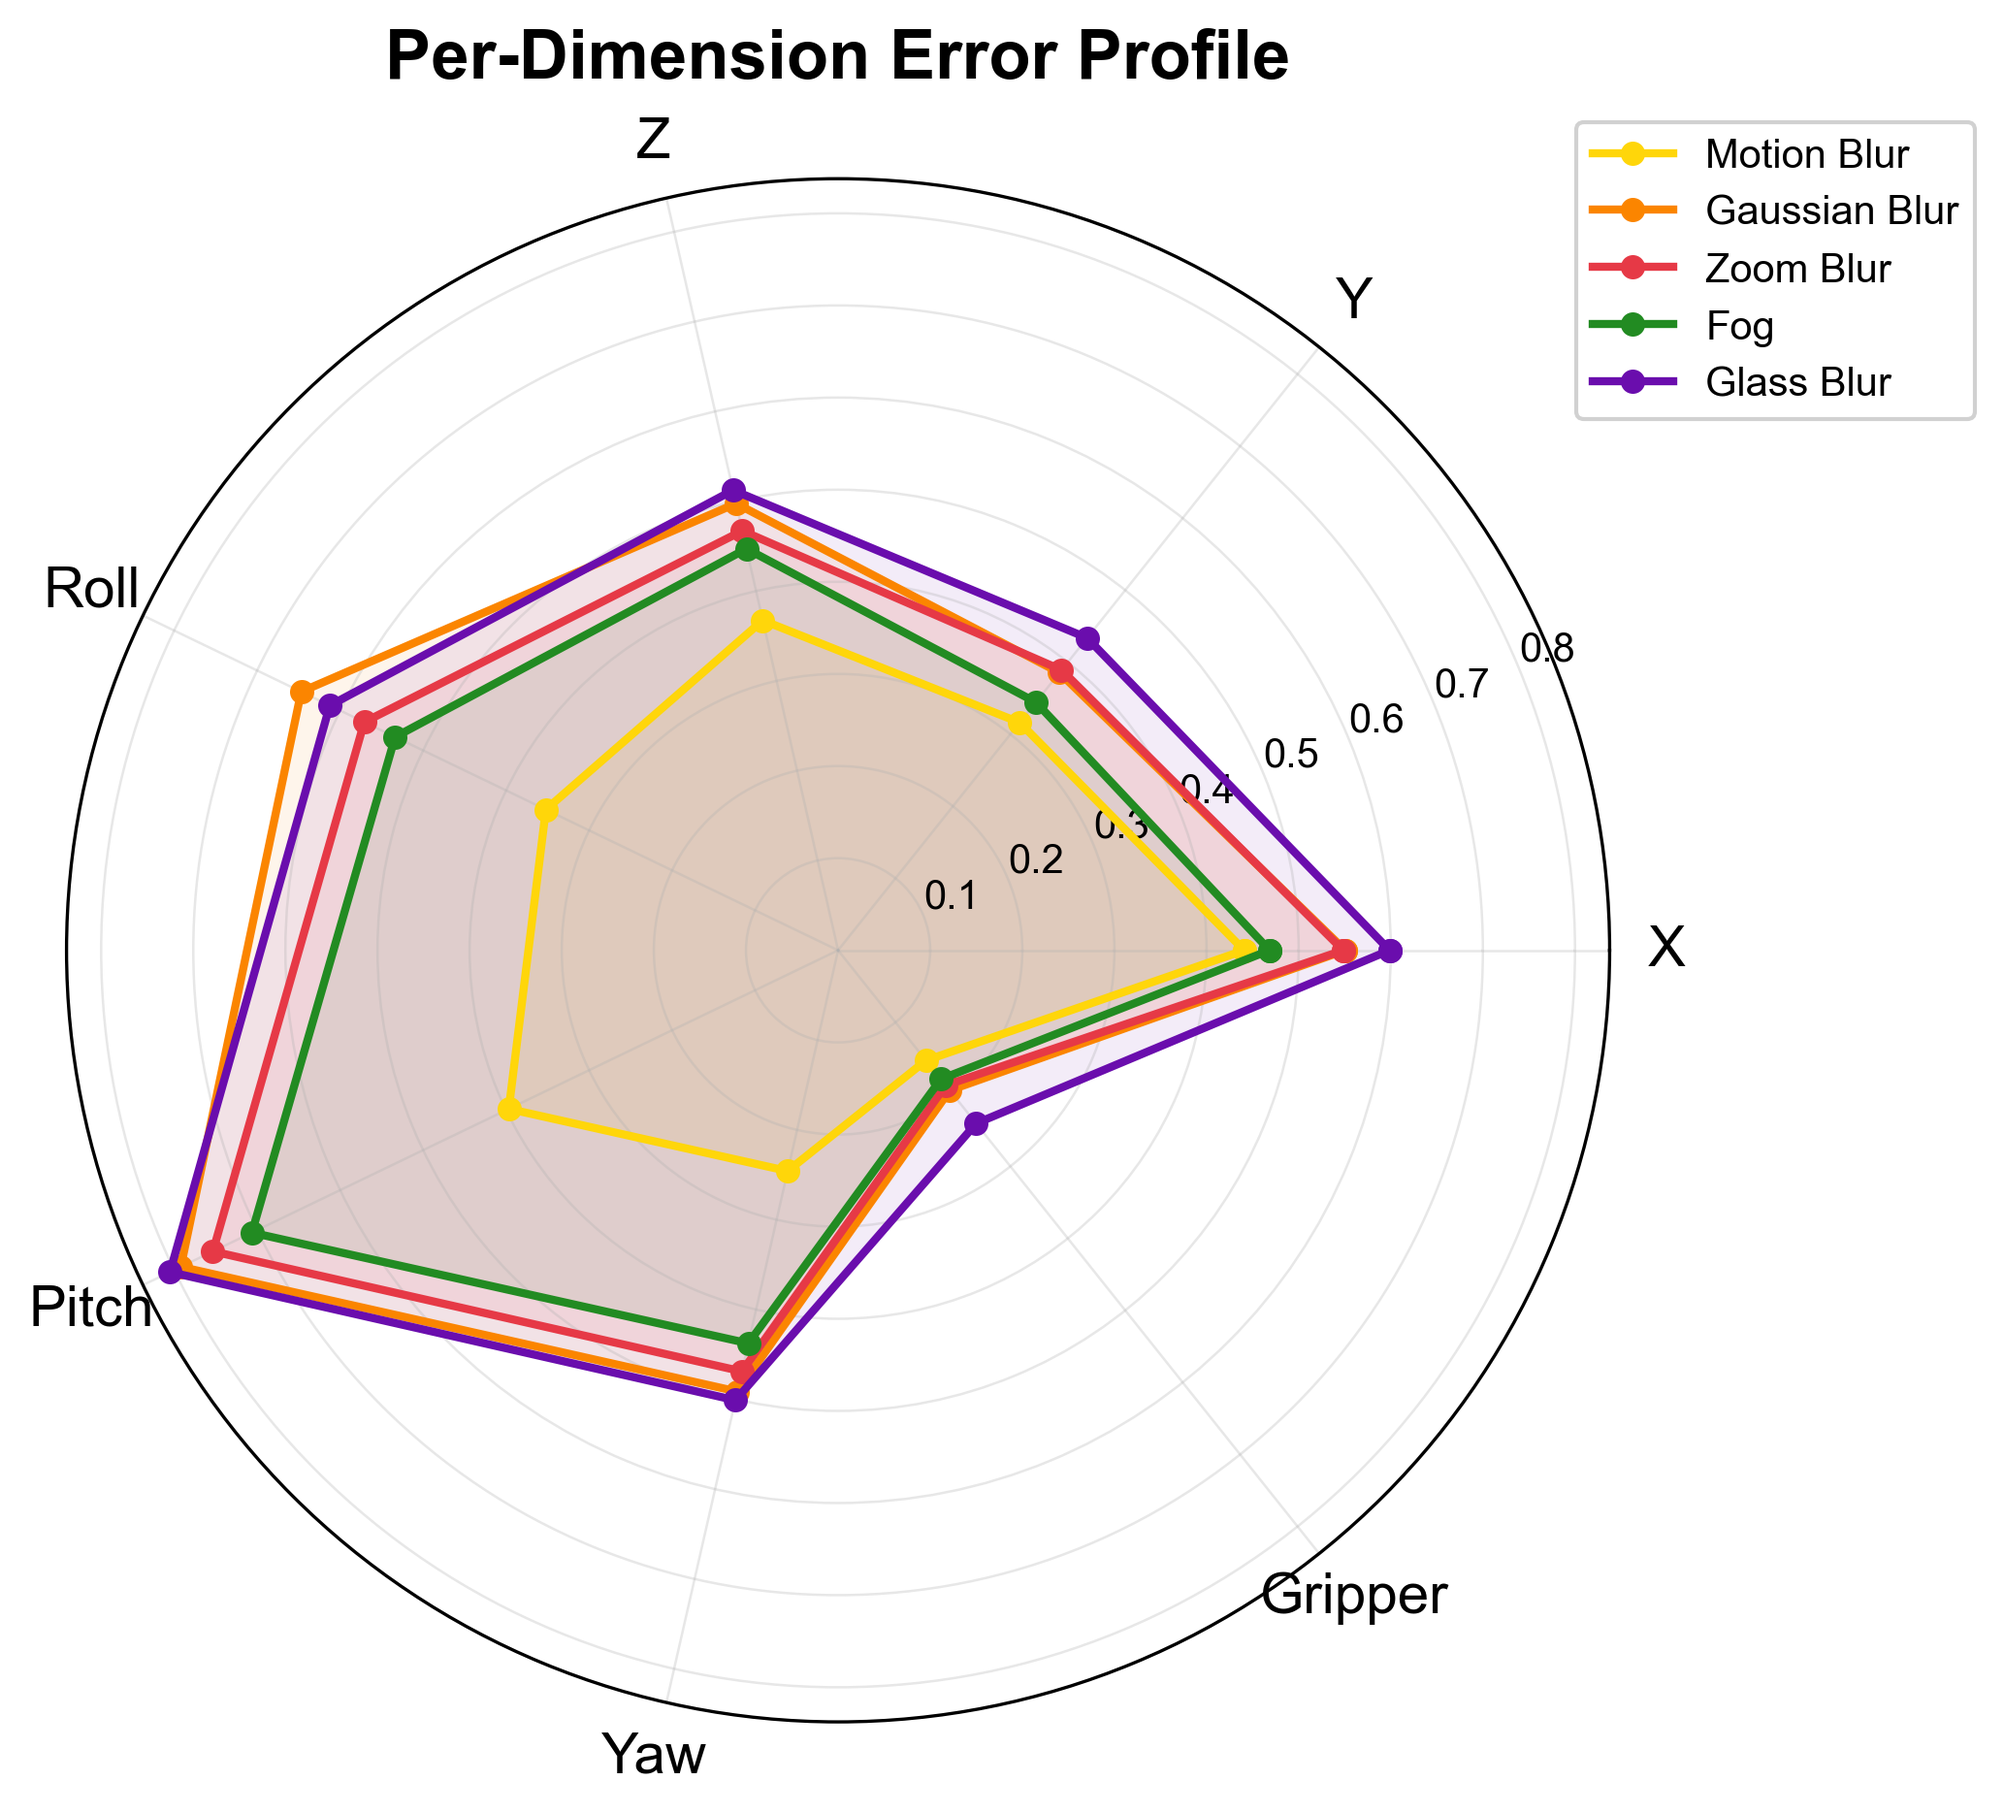
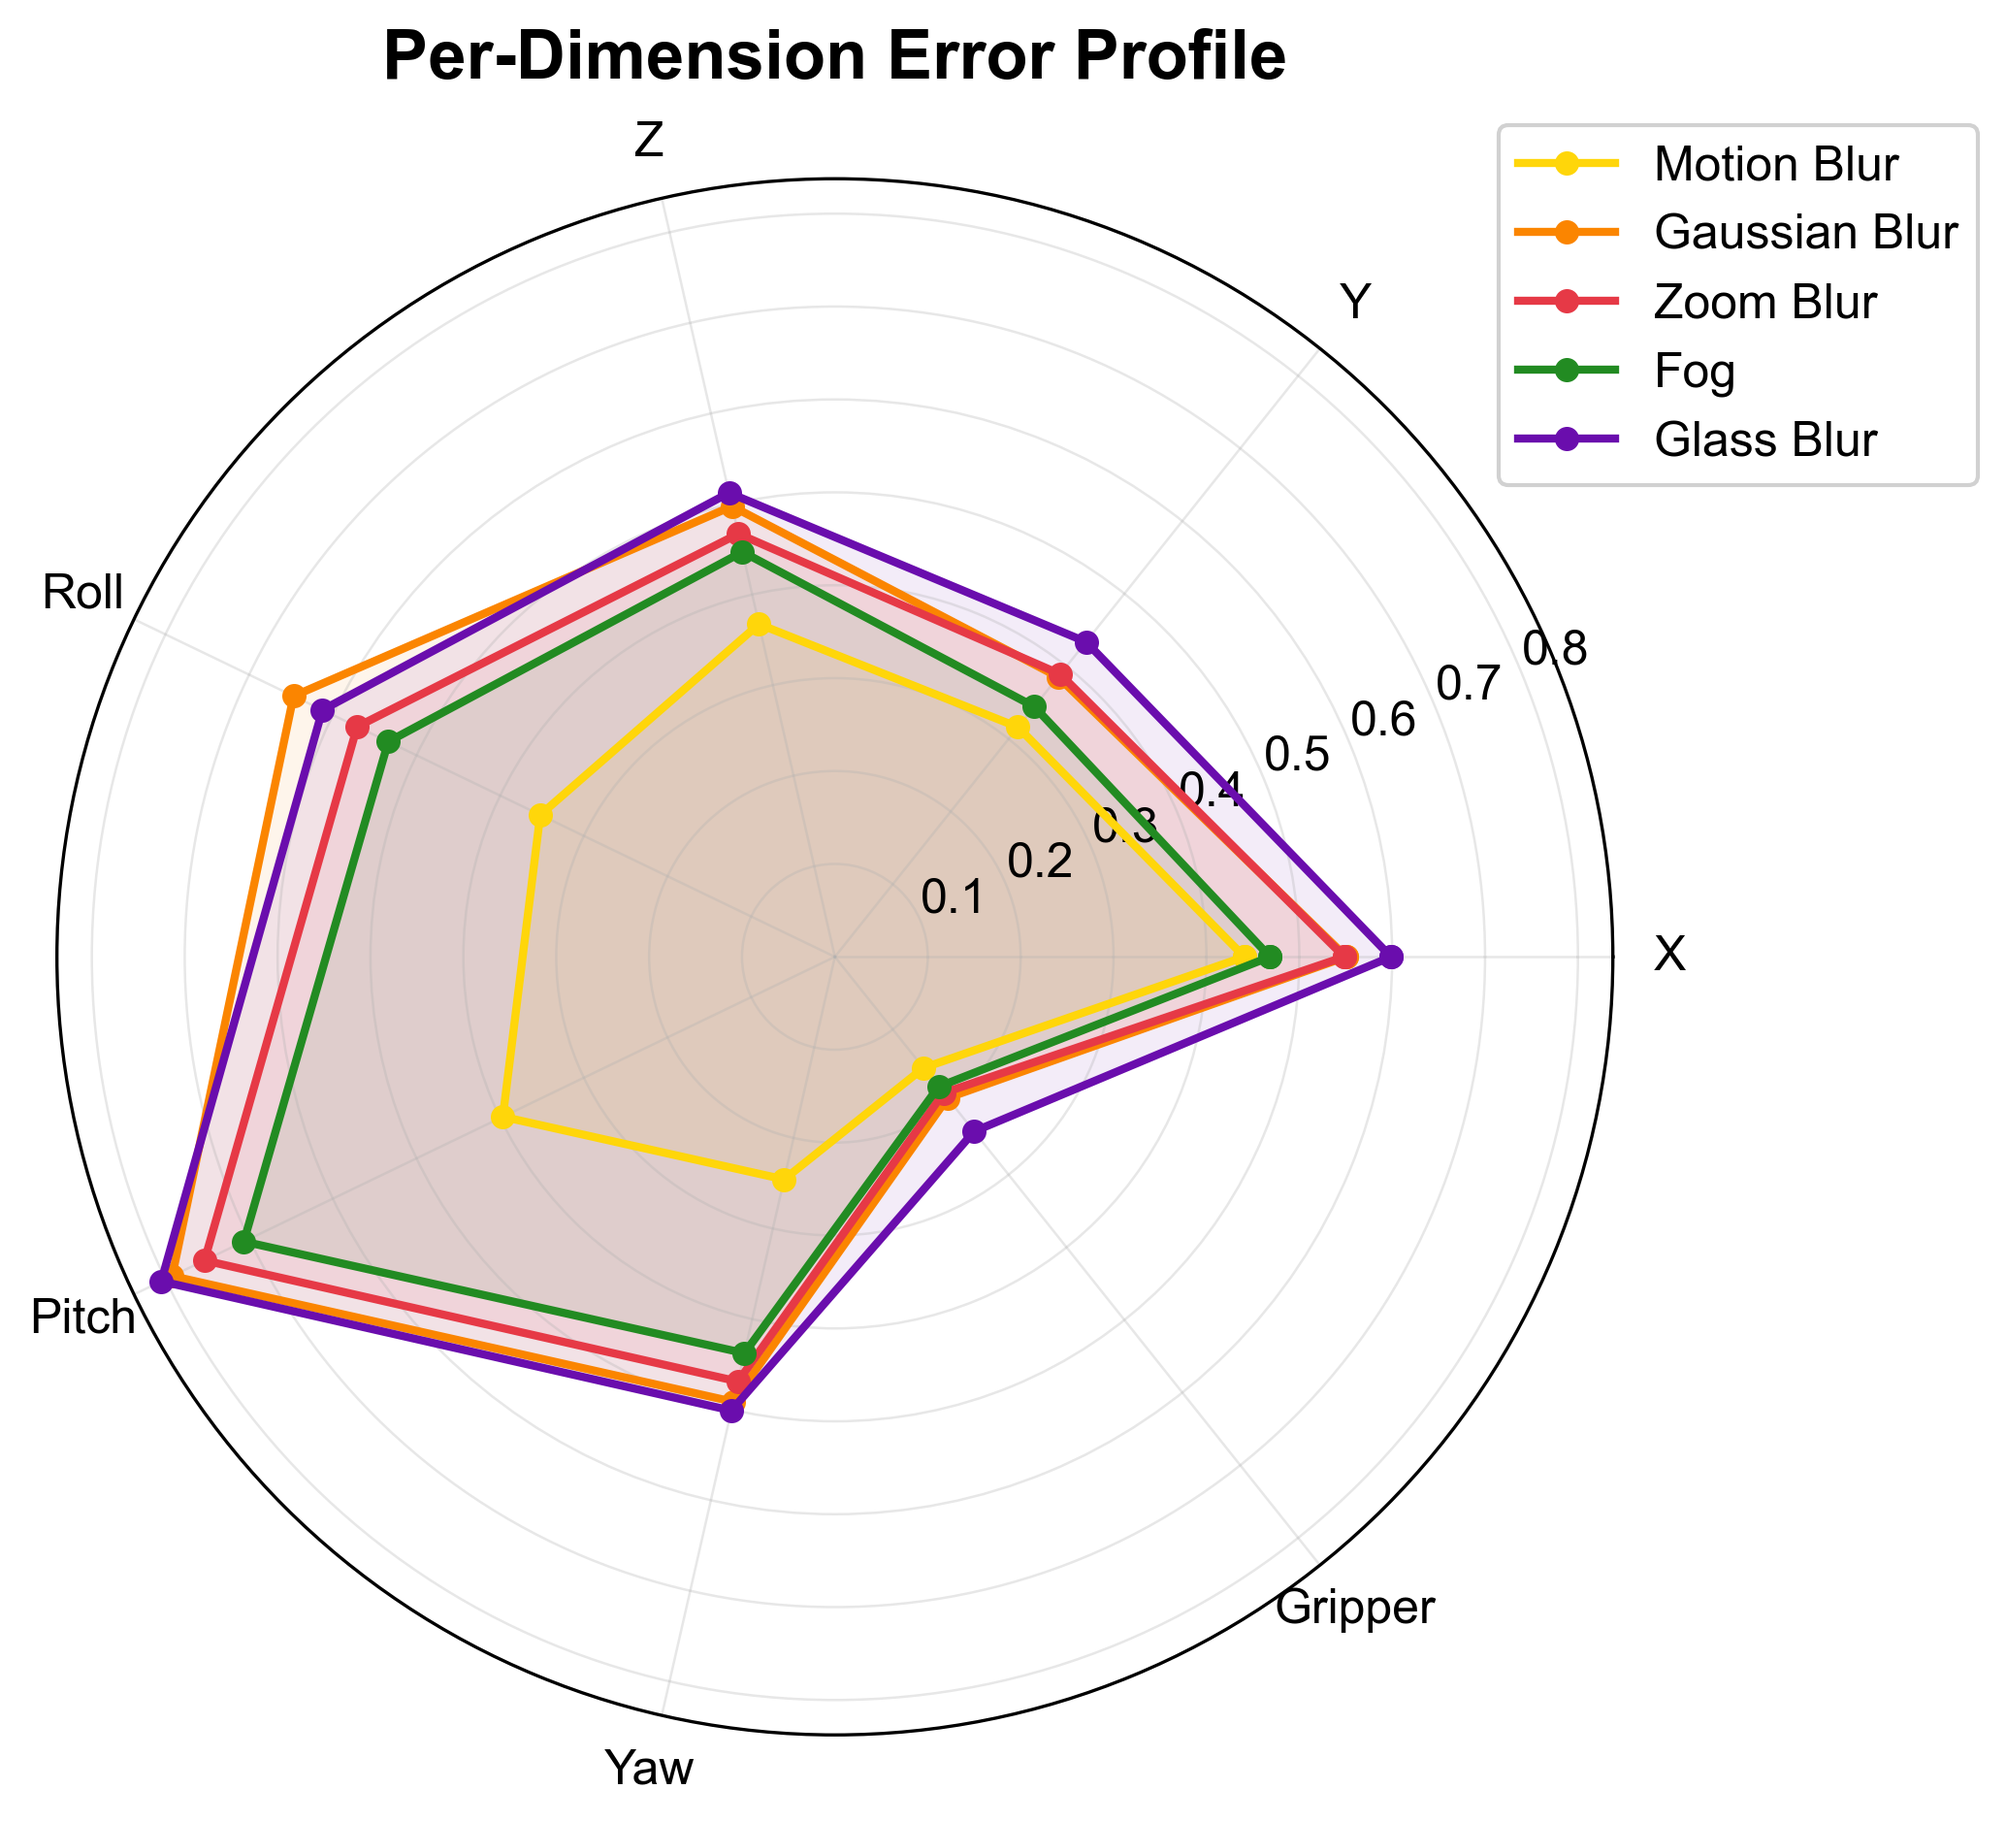
updates fontsize in graphs

diff --git a/smolvla_visual_pilot/plot_result.py b/smolvla_visual_pilot/plot_result.py
@@ -239,7 +239,7 @@ def plot_headline_summary(df: pd.DataFrame, out_dir: Path) -> None:
                     ecolor="#333", capsize=3, linewidth=1.0, zorder=4)
         for xi, val, nt in zip(x_base + offset, vals, noise_types):
             ax.text(xi, val + 1.0, f"{val:.0f}%",
-                    ha="center", va="bottom", fontsize=8, color="#333")
+                    ha="center", va="bottom", fontsize=13, color="#333")
             if val > worst_val:
                 worst_val = val
                 worst_label = f"{NOISE_NICE.get(nt, nt)} s{s}: {val:.0f}%"
@@ -247,15 +247,17 @@ def plot_headline_summary(df: pd.DataFrame, out_dir: Path) -> None:
     ax.annotate(
         f"Worst: {worst_label}",
         xy=(0.99, 0.97), xycoords="axes fraction",
-        ha="right", va="top", fontsize=10, fontweight="bold", color="#E63946",
+        ha="right", va="top", fontsize=13, fontweight="bold", color="#E63946",
         bbox=dict(boxstyle="round,pad=0.3", facecolor="#fff0f0",
                   edgecolor="#E63946", linewidth=1.2),
     )
 
+    ax.tick_params(axis="y", labelsize=12)
+
     ax.axhline(0, color="#888", linewidth=0.8, linestyle="--", zorder=2,
                label="Clean reference (0%)")
     ax.set_xticks(x_base)
-    ax.set_xticklabels([NOISE_NICE.get(nt, nt) for nt in noise_types], fontsize=11)
+    ax.set_xticklabels([NOISE_NICE.get(nt, nt) for nt in noise_types], fontsize=13)
     ax.set_ylabel("Relative Deviation  ‖noisy − clean‖ / ‖clean‖  (%)")
     ax.set_title("SmolVLA Action Deviation from Clean Rollout Under Visual Corruption",
                  fontweight="bold", fontsize=13.5, pad=14)
@@ -453,11 +455,12 @@ def plot_dimension_radar(df: pd.DataFrame, out_dir: Path) -> None:
         ax.fill(angles, vals, alpha=0.08, color=NOISE_PALETTE[nt])
 
     ax.set_xticks(angles[:-1])
-    ax.set_xticklabels(DIM_NAMES, fontsize=14, fontweight="medium")
+    ax.set_xticklabels(DIM_NAMES, fontsize=12, fontweight="medium")
+    ax.tick_params(axis="y", labelsize=12)
     ax.set_title(f"Per-Dimension Error Profile",
                  fontweight="bold", fontsize=17, pad=25)
     ax.legend(loc="upper right", bbox_to_anchor=(1.25, 1.05),
-              frameon=True, fancybox=True, framealpha=0.9, edgecolor="#ccc")
+              frameon=True, fancybox=True, framealpha=0.9, edgecolor="#ccc",fontsize=12)
     _save(fig, out_dir / "dimension_radar_chart.png")
 
 
@@ -500,7 +503,7 @@ def plot_severity_radar_multiples(df: pd.DataFrame, out_dir: Path) -> None:
         ax.set_xticks(angles[:-1])
         ax.set_xticklabels(DIM_NAMES, fontsize=11, fontweight="medium")
         ax.set_ylim(0, global_max)
-        ax.tick_params(axis="y", labelsize=9)
+        ax.tick_params(axis="y", labelsize=12)
         ax.set_title(f"Severity {s}", fontweight="bold", fontsize=13, pad=20)
 
     fig.subplots_adjust(wspace=0.4)
